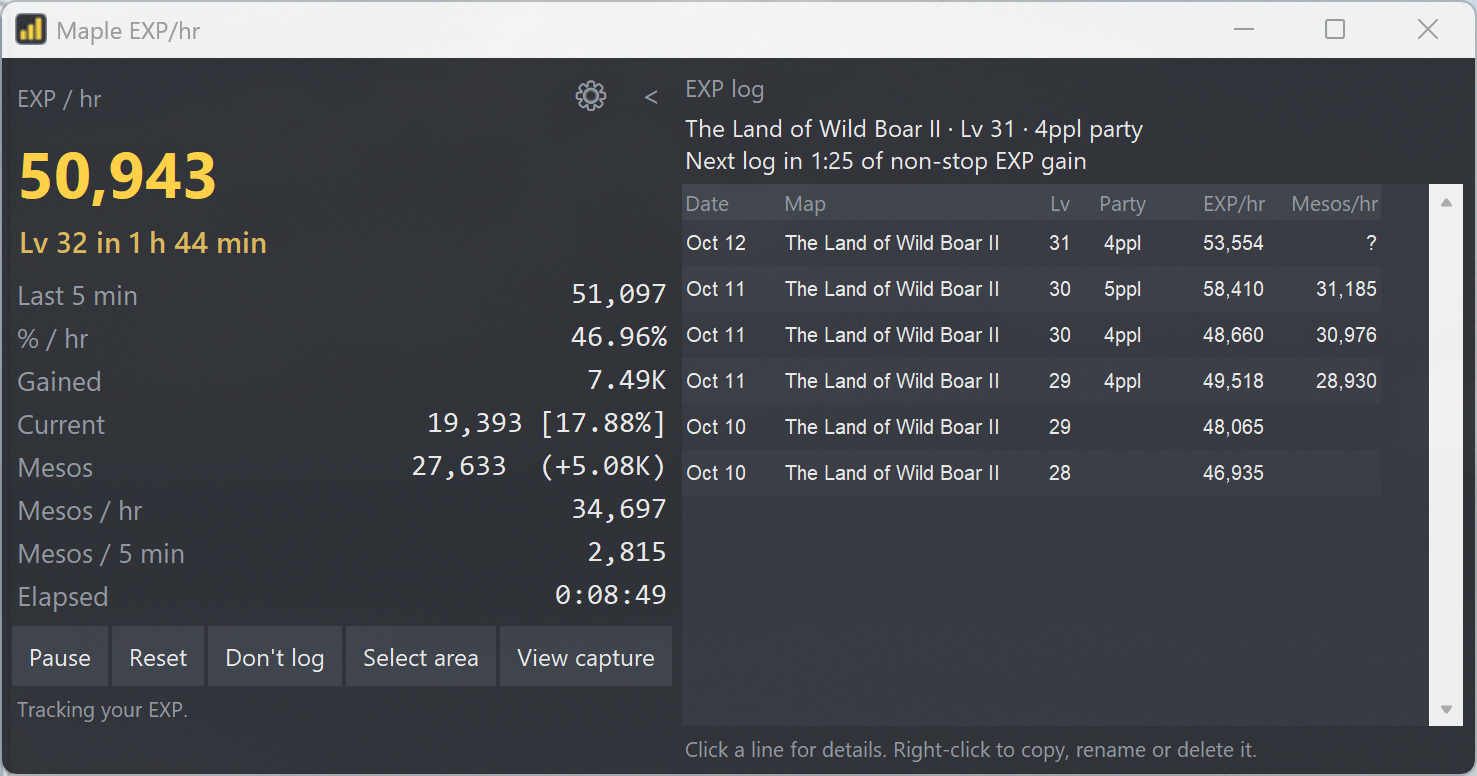
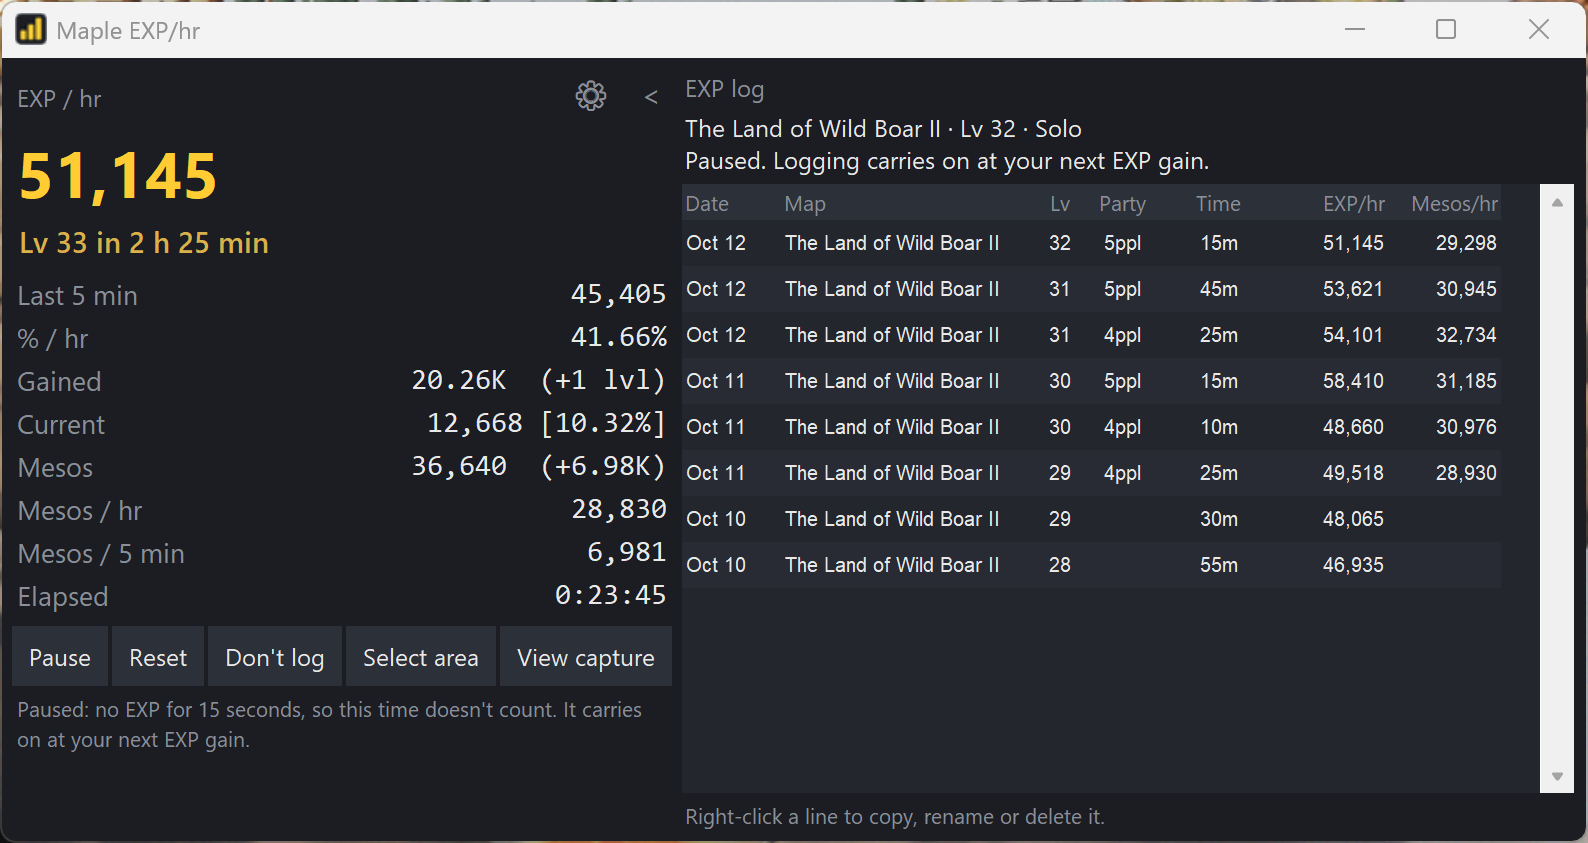
README: full-screen picture of the tracker next to the game, and a new close-up

Changed region(s): [[0.0, 0.0, 1.0, 1.0]]

diff --git a/README.md b/README.md
@@ -4,9 +4,11 @@
 
 > **This is a beta.** It works, but you might run into rough edges. I'm actively improving it, so check back for updates. If something doesn't work, please [tell me](../../issues)!
 
-![The tracker while farming, with its log open](docs/screenshot-main.png)
+![The tracker next to MapleStory, while farming](docs/screenshot-game.jpg)
 
 ## What it shows
+
+![The tracker up close, with its log open](docs/screenshot-main.png)
 
 - **EXP per hour**, for your whole session and for the last 5 minutes
 - **How long until your next level**, right under your EXP/hr (for example "Lv 31 in 36 min")
@@ -59,7 +61,7 @@ Within a few seconds it shows your level and how much EXP you have. The per-hour
 
 ## The log
 
-Click **>** at the top right of the tracker to open the log. It's the table on the right in the picture at the top.
+Click **>** at the top right of the tracker to open the log. It's the table on the right in the close-up picture above.
 
 - **After 5 minutes of non-stop farming**, it adds a line for that map, your level and your party size.
 - **Every 5 more minutes** it updates that line, so the numbers get more accurate the longer you farm.
